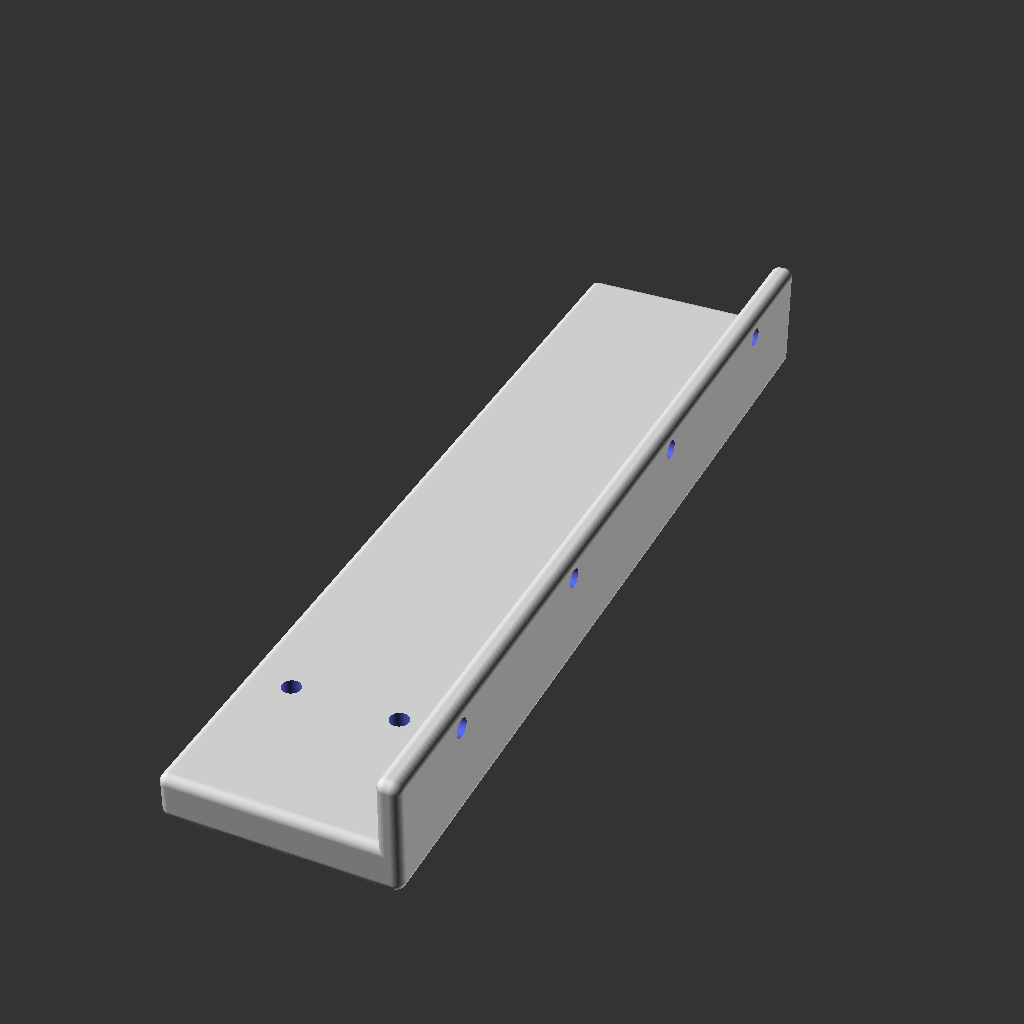
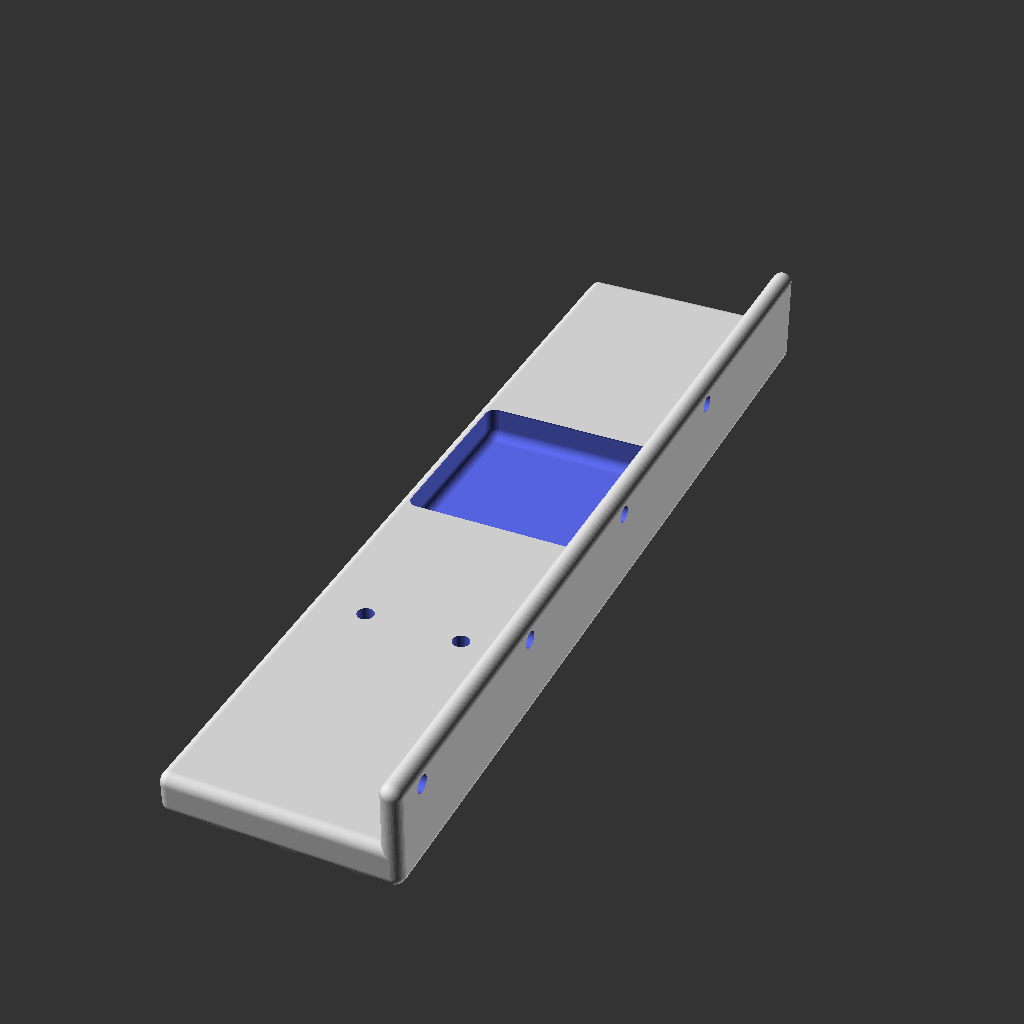
solderingstation: allow for multiple irons

diff --git a/README.md b/README.md
@@ -154,8 +154,8 @@ a shitty duct to attach a hose to a window
 
 ## [solderingstation](solderingstation.scad)
 
-A way of mounting a soldering iron,
-assuming you have a metal bracket to hold it.
+A way of mounting soldering irons,
+assuming you have metal brackets.
 
 <img width=200px height=200px src=solderingstation.png />
 
